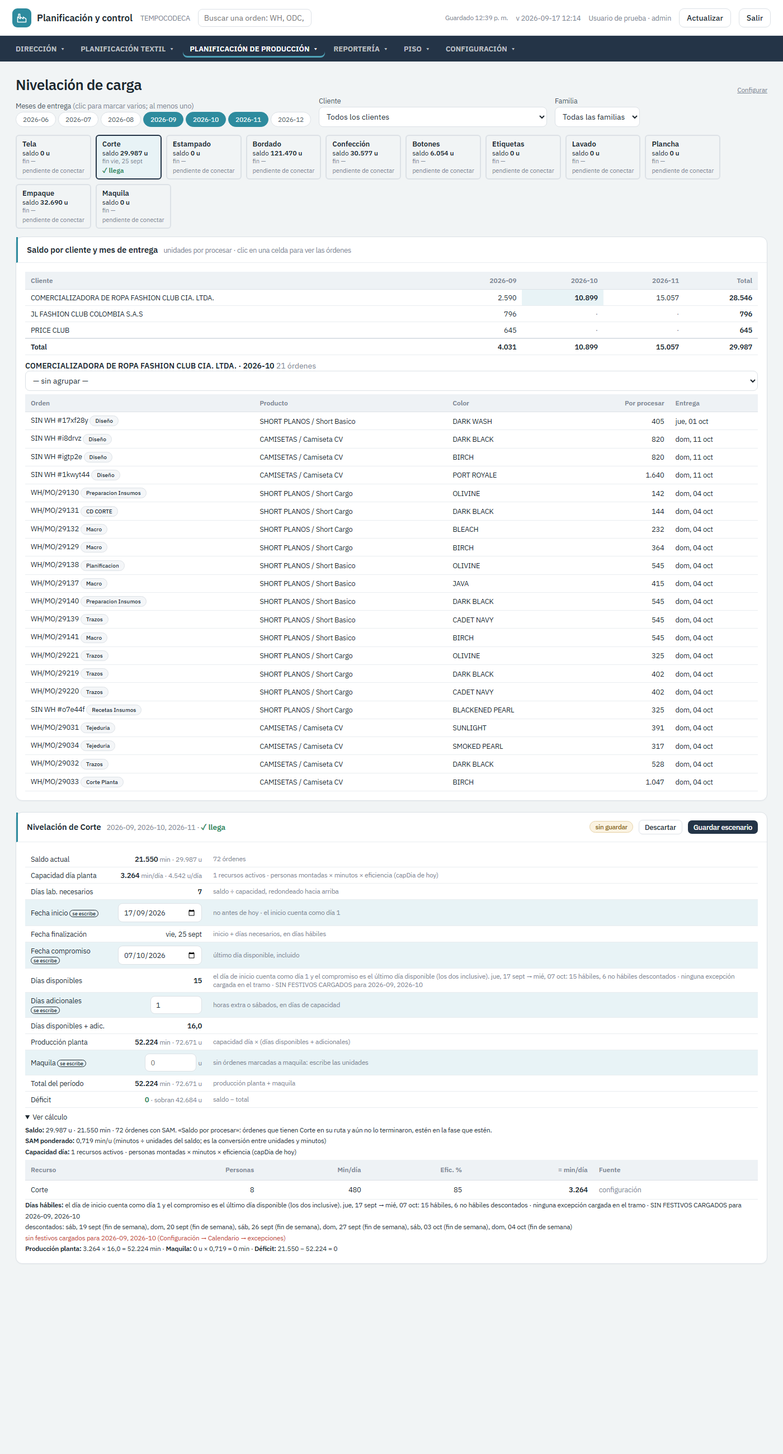
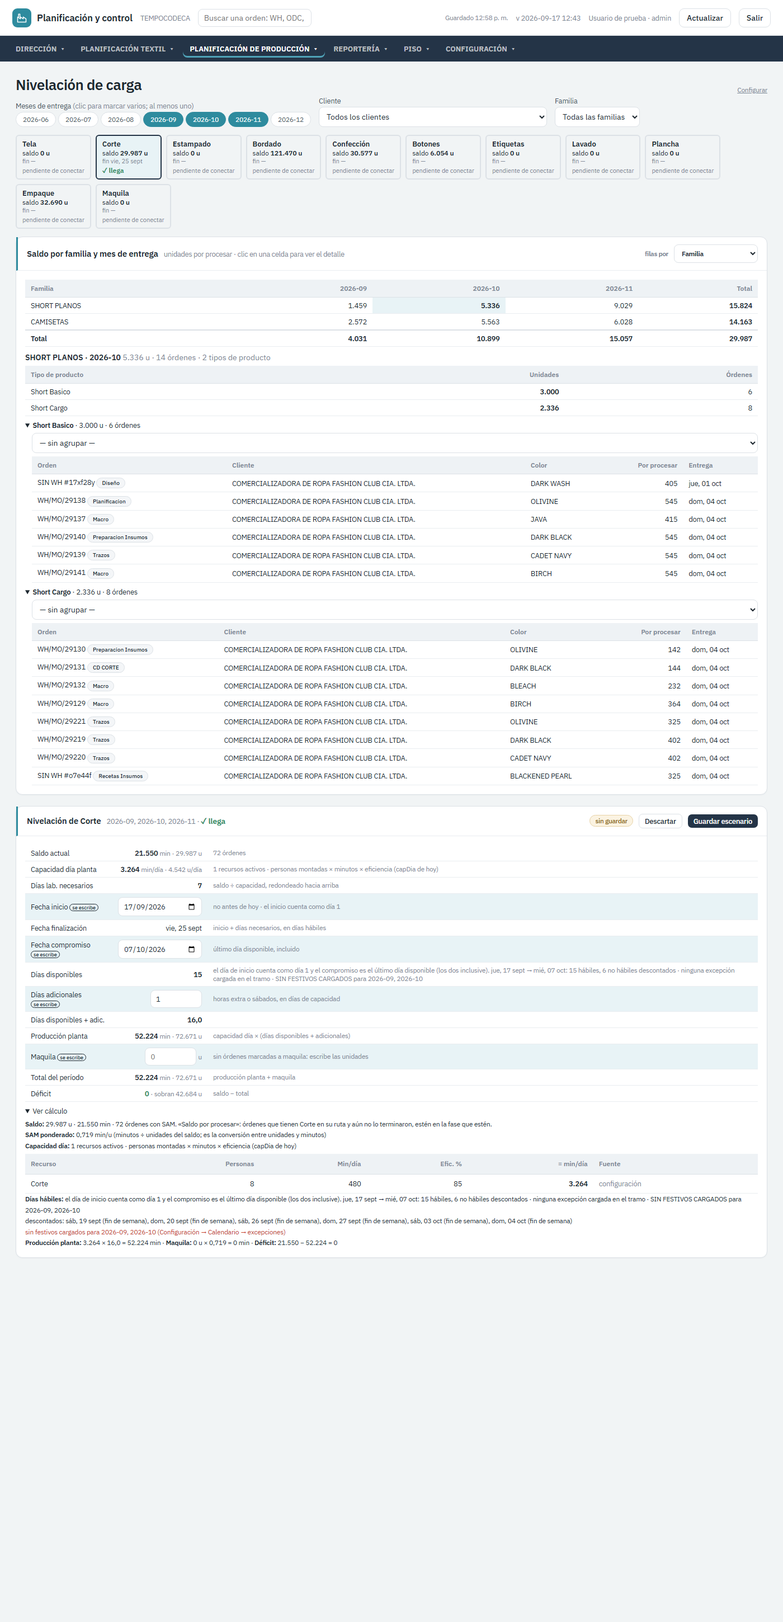
Nivelación · la tabla de saldo agrupa por FAMILIA × mes (selector familia / tipo de producto / cliente); celda → tipos de producto → órdenes
Para nivelar se mira el tipo de producto, no las órdenes una por una. El agrupamiento de filas no cambia el
cálculo (probado: mismo total). El detalle de una celda va primero por tipo de producto con unidades y adentro las
órdenes con foto/WH/fase; las WH quedan en el último nivel. Aplica a todas las áreas. Harness 2.335 checks, 0 errores.

diff --git a/test/driver.js b/test/driver.js
@@ -120,11 +120,11 @@ async function __run(){try{LISTO=true;}catch(e){}try{__R.prevFuzz=localStorage._
   const planT=planTarea(tareaRows,'Tarea__project_task__95_.xlsx');window.__planT=planT;window.__tareaRows=tareaRows;
   /* CAPTURA (para las capturas del reporte, sin correr las pruebas): ?captura=niv1 | niv2 carga el volcado y deja la pantalla de nivelación en un estado fijo */
   if(/captura=niv/.test(location.search)){TAREA=planT;const pr=window.prompt;window.prompt=()=>'APLICAR';aplicarTarea();window.prompt=pr;await __p(50);PERFIL={id:'cap',rol:'planificacion',nombre:'Planificación'};
-    NIVUI={meses:['2026-09','2026-10','2026-11'],cliente:'',familia:'',area:'corte',celda:null,esc:{},verCalc:false,noEntra:false};
+    NIVUI={meses:['2026-09','2026-10','2026-11'],cliente:'',familia:'',area:'corte',celda:null,filaPor:'familia',esc:{},verCalc:false,noEntra:false};
     if(/niv2/.test(location.search)){nivUISet('corte','inicio',hoy());nivUISet('corte','compromiso',dsum(hoy(),20));nivUISet('corte','diasAdic',1);NIVUI.verCalc=true;NIVUI.noEntra=true;
-      const r=nivUICalcular('corte');const cl=Object.keys((()=>{const m={};(r.saldo.ordenes||[]).forEach(o=>{m[String(o.cliente||'')]=1});return m})())[0];if(cl)NIVUI.celda={cliente:cl,mes:'2026-10'}}
+      const r=nivUICalcular('corte');const cl=Object.keys((()=>{const m={};(r.saldo.ordenes||[]).forEach(o=>{m[String(o.cliente||'')]=1});return m})())[0];if(cl)NIVUI.celda={por:'familia',fila:famDeOrden(r.saldo.ordenes[0]),mes:'2026-10'}}
     if(/niv3/.test(location.search)){nivUISet('corte','inicio',hoy());nivUISet('corte','compromiso',dsum(hoy(),3));nivUISet('corte','diasAdic',0);NIVUI.noEntra=true;NIVUI.verCalc=false}
-    page='nivelacion';render();document.body.classList.add('captura');__R.done=true;return}
+    page='nivelacion';render();document.querySelectorAll('#p-nivelacion details').forEach(d=>{d.open=true});document.body.classList.add('captura');__R.done=true;return}
   __check('planTarea reconoce columnas',!!planT);
   __check('planTarea: 4.235 cabeceras (3.733 con WH + 502 sin WH) y 60.766 líneas de componentes',planT.cabeceras===4235&&planT.sinLanzar===502&&planT.lineasComp===60766,planT.cabeceras+' / '+planT.sinLanzar+' / '+planT.lineasComp);
   __check('planTarea: la fase decide: los 2 Estado OP cancel son Facturado con fecha pasada → fuera de rango por la fase; 5 sin fecha en bandeja (4 con WH + 1 sin WH); las que tienen Proyecto entran al plan sin fecha y no se liberan ni programan',planT.excluidas.cancel.length===0&&planT.excluidas.fueraRango.filter(x=>x.estadoOP==='cancel').length===2&&planT.sinFecha.length===5&&planT.ordenes.filter(o=>o.sinFechaEntrega).length===planT.sinFecha.filter(x=>x.entra).length&&planT.ordenes.filter(o=>o.sinFechaEntrega).every(o=>!o.fecha&&mesPlan(o)&&!liberada(o,'tela')&&!puedeLiberarA(o,'tela')),planT.excluidas.cancel.length+' / '+planT.sinFecha.length);
@@ -6162,7 +6162,7 @@ async function __run(){try{LISTO=true;}catch(e){}try{__R.prevFuzz=localStorage._
    /* N1 · pantalla propia */
    {const a=document.querySelector('nav a[data-p="nivelacion"]');
     __check("N1: «Nivelación de carga» abre SU pantalla (no Configuración)",!!a&&!a.dataset.conf&&!document.querySelector('nav a[data-conf="nivel"]'));
-    PERFIL={id:"u-niv",rol:"planificacion",nombre:"Plan"};NIVUI={meses:null,cliente:"",familia:"",area:"corte",celda:null,esc:{},verCalc:false,noEntra:false};
+    PERFIL={id:"u-niv",rol:"planificacion",nombre:"Plan"};NIVUI={meses:null,cliente:"",familia:"",area:"corte",celda:null,filaPor:"familia",esc:{},verCalc:false,noEntra:false};
     page="nivelacion";render();const h=()=>document.getElementById("p-nivelacion").innerHTML;
     __check("N1: arriba a la derecha solo el enlace «Configurar»; nada de configuración adentro",/>Configurar</.test(h())&&!/Grupos de módulos|setNivParam\(|setNivelFase\(/.test(h()));
     {const pp=PERFIL;PERFIL=adminP;page="config";CONF.tab="nivel";render();PERFIL=pp}const hc=document.getElementById("p-config").innerHTML;
@@ -6176,22 +6176,30 @@ async function __run(){try{LISTO=true;}catch(e){}try{__R.prevFuzz=localStorage._
     av="";nivUIMeses().slice().forEach(m=>nivUITogMes(m));
     __check("N2: no se puede desmarcar el último",nivUIMeses().length===1&&/al menos un mes/.test(av),av);
     otros.forEach(m=>nivUITogMes(m));
-    __check("N2: los filtros visibles son solo cliente y familia",(h().match(/<select /g)||[]).length===2&&/Todos los clientes/.test(h())&&/Todas las familias/.test(h()));}
+    __check("N2: los filtros visibles son solo cliente y familia",(h().split('<div class="panel"')[0].match(/<select /g)||[]).length===2&&/Todos los clientes/.test(h())&&/Todas las familias/.test(h()));}
    /* N3 · recuadros de área desde los centros configurados */
    {const areas=nivUIAreas();const pro=S.centros.filter(c=>c.area==="pro"&&c.activo!==false).length;
     __check("N3: un recuadro por área: Tela, los centros de producción configurados en orden de proceso, Maquila",areas.length===pro+2&&areas[0].id==="tela"&&areas[1].id==="corte"&&areas[areas.length-1].id==="maquila"&&areas.findIndex(a=>a.id==="modulos")>areas.findIndex(a=>a.id==="corte"),areas.map(a=>a.id).join(" → "));
     const h=document.getElementById("p-nivelacion").innerHTML;
     __check("N3: cada recuadro trae saldo, fecha final y estado con ícono",areas.every(a=>h.includes("NIVUI.area='"+a.id+"'"))&&(h.match(/saldo <b>/g)||[]).length===areas.length&&(h.match(/>fin /g)||[]).length===areas.length&&/[✓⚠✕?] (llega|riesgo|déficit|dato faltante)/.test(h));
     NIVUI.area="modulos";render();const h2=document.getElementById("p-nivelacion").innerHTML;
-    __check("N3: clic en un recuadro muestra SOLO esa área abajo (y las no conectadas lo dicen, sin cuadrito)",/Confección todavía no está conectada/.test(h2)&&!/Nivelación de Corte/.test(h2)&&(h2.match(/Saldo por cliente y mes/g)||[]).length===1&&!/se escribe/.test(h2));
+    __check("N3: clic en un recuadro muestra SOLO esa área abajo (y las no conectadas lo dicen, sin cuadrito)",/Confección todavía no está conectada/.test(h2)&&!/Nivelación de Corte/.test(h2)&&(h2.match(/Saldo por familia y mes/g)||[]).length===1&&!/se escribe/.test(h2));
     NIVUI.area="corte";render();}
    /* N4 · detalle de Corte: tabla cliente × mes y cuadrito */
    {const r=nivUICalcular("corte");const h=()=>document.getElementById("p-nivelacion").innerHTML;
     __check("N4: la tabla tiene una columna por mes marcado y fila de totales",nivUIMeses().every(m=>new RegExp("<th class=\"num\">"+m+"</th>").test(h()))&&/<td>Total<\/td>/.test(h()));
-    const cel=h().match(/onclick="NIVUI.celda=\{cliente:'([^']+)',mes:'([^']+)'\}/);
+    __check("N4: la tabla es por FAMILIA × mes por defecto, con selector Familia · Tipo de producto · Cliente, y el título lo dice",/Saldo por familia y mes de entrega/.test(h())&&/<option value="familia" selected(="")?>Familia<\/option>/.test(h())&&/<option value="hija"[^>]*>Tipo de producto<\/option>/.test(h())&&/<option value="cliente"[^>]*>Cliente<\/option>/.test(h())&&(()=>{const fams=new Set(nivUIOrdenesSaldo(r).map(o=>famDeOrden(o)));return [...fams].every(f=>h().includes("<td>"+esc(f)+"</td>"))})());
+    const cel=h().match(/onclick="NIVUI.celda=\{por:'familia',fila:'([^']+)',mes:'([^']+)'\}/);
     __check("N4: hay celdas con saldo",!!cel,"sin celdas");
-    if(cel){NIVUI.celda={cliente:cel[1].replace(/&#39;/g,"'"),mes:cel[2]};render();
-     __check("N4: clic en una celda lista las órdenes con foto/WH (whCell + filasGRP)",/órdenes<\/span>/.test(h())&&/setNivelGRP\('nivui'/.test(h())&&/fase-mini|foto-mini|WH\//.test(h()));NIVUI.celda=null;render();}
+    if(cel){NIVUI.celda={por:"familia",fila:cel[1].replace(/&#39;/g,"'"),mes:cel[2]};render();
+     __check("N4: clic en una celda abre el detalle: primero tipos de producto con unidades, y adentro las órdenes con foto/WH/fase (whCell + filasGRP)",/tipos de producto<\/span>/.test(h())&&/<th>Tipo de producto<\/th><th class="num">Unidades<\/th>/.test(h())&&/<details[^>]*><summary[^>]*><b>/.test(h())&&/setNivelGRP\('nivui'/.test(h())&&/fase-mini|foto-mini|WH\//.test(h()));
+     /* las WH van en el último nivel: la primera tabla del detalle es de tipos de producto, no de órdenes */
+     __check("N4: las WH quedan en el último nivel, no en el primero",(()=>{const i=h().indexOf("tipos de producto</span>");const seg=h().slice(i,i+1500);const m=seg.match(/<tbody><tr><td>([^<]+)<\/td>/);return !!m&&!/^WH\/|^SIN WH/.test(m[1])})());
+     /* cambiar el agrupamiento no cambia el total */
+     const totalDe=()=>{const mm=h().match(/<td>Total<\/td>(?:<td class="num">[^<]*<\/td>)*<td class="num">([^<]+)<\/td>/);return mm?mm[1]:null};const tF=totalDe();
+     NIVUI.filaPor="hija";NIVUI.celda=null;render();const tH=totalDe();NIVUI.filaPor="cliente";render();const tC=totalDe();
+     __check("N4: agrupar por tipo de producto o por cliente no cambia el cálculo (mismo total) y el título cambia",tF!=null&&tF===tH&&tH===tC&&/Saldo por cliente y mes de entrega/.test(h()),tF+" / "+tH+" / "+tC);
+     NIVUI.filaPor="familia";NIVUI.celda=null;render();}
     const filas=[...h().matchAll(/<tr[^>]*><td>([^<]+?)(?: <span class="tag"[^>]*>se escribe<\/span>)?<\/td>/g)].map(x=>x[1].trim());
     const esperado=["Saldo actual","Capacidad día planta","Días lab. necesarios","Fecha inicio","Fecha finalización","Fecha compromiso","Días disponibles","Días adicionales","Días disponibles + adic.","Producción planta","Maquila","Total del período","Déficit"];
     const idx=esperado.map(n=>filas.indexOf(n));
@@ -6236,7 +6244,7 @@ async function __run(){try{LISTO=true;}catch(e){}try{__R.prevFuzz=localStorage._
      __check("N7: con déficit, clic muestra «qué no entra» con foto/WH, de la entrega más lejana hacia atrás",/Qué no entra/.test(h)&&l.length>=1&&l.reduce((a,x)=>a+x.min,0)>=r.deficitMin&&(l.length<2||String(fechaMetaDe(l[0].o))>=String(fechaMetaDe(l[l.length-1].o))),l.length+" órdenes");}
     else __check("N7: con déficit, clic muestra «qué no entra»",false,"no hubo déficit con capacidad 0: "+JSON.stringify({def:r.deficitMin,cap:r.calc.capDia,saldo:r.saldo&&r.saldo.min}));
     recsC.forEach((r,i)=>{r.pers=bakPers[i]});NIVUI.noEntra=false;nivUIDescartar("corte");}
-   window.alert=al;PERFIL=adminP;NIVUI={meses:null,cliente:"",familia:"",area:"corte",celda:null,esc:{},verCalc:false,noEntra:false};page="ordenes";render();
+   window.alert=al;PERFIL=adminP;NIVUI={meses:null,cliente:"",familia:"",area:"corte",celda:null,filaPor:"familia",esc:{},verCalc:false,noEntra:false};page="ordenes";render();
    __check("NIVUI sin errores",__R.errors.length===antes,JSON.stringify(__R.errors.slice(antes,antes+3)));}
   __R.done=true;console.log('__RESULTADO__ '+JSON.stringify({errores:__R.errors.length,fallos:__R.checks.filter(c=>!c.ok).length,checks:__R.checks.length}));
 }

diff --git a/index.html b/index.html
@@ -706,7 +706,7 @@ async function _save(){
 }
 
 /* ---------- versión cargada vs publicada: nunca mirar números de una copia vieja sin saberlo ---------- */
-const APP_BUILD='2026-09-17 12:43';
+const APP_BUILD='2026-09-17 13:04';
 function verBotonesAdmin(){const ok=puede('config');['btn-respaldo','btn-restaurar'].forEach(id=>{const b=document.getElementById(id);if(b)b.style.display=ok?'':'none'})}
 function verVersion(){const e=document.getElementById('version');if(e)e.textContent='v '+APP_BUILD}
 async function revisarVersion(){try{const r=await fetch(location.pathname+'?nocache='+Date.now(),{cache:'no-store'});if(!r.ok)return;const t=await r.text();const m=t.match(/APP_BUILD=\x27([^\x27]+)\x27/);if(!m)return;
@@ -6042,7 +6042,12 @@ function vNivelConfHTML(){
    `saldoProceso`, `capDia`, `diasHabilesInc`/`finLabInc`): aquí no se calcula nada nuevo, solo se
    presenta y se derivan tres filas del cuadrito (días adicionales, maquila escrita, total del período).
    Del Excel se tomó la forma; ninguno de sus números. Nada de configuración vive aquí: enlace «Configurar». */
-let NIVUI={meses:null,cliente:'',familia:'',area:'corte',celda:null,esc:{},verCalc:false,noEntra:false};
+let NIVUI={meses:null,cliente:'',familia:'',area:'corte',celda:null,filaPor:'familia',esc:{},verCalc:false,noEntra:false};
+/* cómo se agrupan las FILAS de la tabla de saldo (no cambia el cálculo): familia (categoría padre) por defecto */
+const NIVUI_FILAS=[['familia','Familia'],['hija','Tipo de producto'],['cliente','Cliente']];
+function nivUIClaveFila(o,por){por=por||NIVUI.filaPor||'familia';if(por==='cliente')return String(o.cliente||'(sin cliente)');
+  if(por==='hija'){const k=K(o.cat);return k?k.n:'Sin categoría'}return famDeOrden(o)}
+function nivUIFilaTxt(por){return (NIVUI_FILAS.find(x=>x[0]===(por||NIVUI.filaPor))||NIVUI_FILAS[0])[1].toLowerCase()}
 const NIVUI_LISTA='nivui';
 /* áreas con el cuadrito conectado; las demás esperan aprobación una por una */
 const NIVUI_CONECTADAS=['corte'];
@@ -6142,23 +6147,34 @@ function nivUIRecuadrosHTML(){const meses=nivUIMeses();
       <div style="font-size:12px">saldo <b>${saldo}</b></div>
       <div style="font-size:11px" class="mut">fin ${esc(fin)}</div>
       <div>${NIVUI_CONECTADAS.includes(a.id)?nivUIEstadoHTML(r?r.estado:'faltante',true):'<span class="mut" style="font-size:11px">pendiente de conectar</span>'}</div></div>`}).join('')}</div>`}
-/* tabla cliente × mes (unidades del saldo); clic en celda → lista */
-function nivUITablaHTML(r){if(!r||!r.saldo)return '';const meses=r.meses;const c=r.area.tipo==='centro'?r.area.id:'modulos';
-  const uDe=o=>r.area.tipo==='tela'?(+o.cant||0):pendCentroUnid(o,c);
-  const ords=r.saldo.ordenes.concat(r.saldo.sinSAM||[]).filter((o,i,arr)=>arr.indexOf(o)===i);
-  const m={};ords.forEach(o=>{const cl=String(o.cliente||'(sin cliente)');const mes=mesEntregaNiv(o);m[cl]=m[cl]||{};m[cl][mes]=(m[cl][mes]||0)+uDe(o)});
-  const clientes=Object.keys(m).sort((a,b)=>Object.values(m[b]).reduce((x,y)=>x+y,0)-Object.values(m[a]).reduce((x,y)=>x+y,0));
-  const tot={};clientes.forEach(cl=>meses.forEach(mes=>{tot[mes]=(tot[mes]||0)+(m[cl][mes]||0)}));
-  const celda=(cl,mes,v)=>{const on=NIVUI.celda&&NIVUI.celda.cliente===cl&&NIVUI.celda.mes===mes;return `<td class="num" style="cursor:${v?'pointer':'default'};${on?'background:var(--t-accent-soft,var(--field));font-weight:600':''}" ${v?`onclick="NIVUI.celda=${on?'null':`{cliente:'${esc(cl).replace(/'/g,'&#39;')}',mes:'${mes}'}`};render()"`:''}>${v?num(v,0):'<span class="mut">·</span>'}</td>`};
-  return `<div class="panel"><h3>Saldo por cliente y mes de entrega <span class="note">unidades por procesar · clic en una celda para ver las órdenes</span></h3><div class="body"><div class="scroll"><table><thead><tr><th>Cliente</th>${meses.map(mes=>`<th class="num">${esc(mes)}</th>`).join('')}<th class="num">Total</th></tr></thead><tbody>
-   ${clientes.map(cl=>`<tr><td>${esc(cl)}</td>${meses.map(mes=>celda(cl,mes,m[cl][mes]||0)).join('')}<td class="num"><b>${num(meses.reduce((x,mes)=>x+(m[cl][mes]||0),0),0)}</b></td></tr>`).join('')||'<tr><td colspan="99" class="mut">Sin saldo con estos meses y filtros.</td></tr>'}
-   ${clientes.length?`<tr style="border-top:2px solid var(--rule);font-weight:600"><td>Total</td>${meses.map(mes=>`<td class="num">${num(tot[mes]||0,0)}</td>`).join('')}<td class="num">${num(meses.reduce((x,mes)=>x+(tot[mes]||0),0),0)}</td></tr>`:''}
-  </tbody></table></div>${nivUIListaCeldaHTML(r,ords,uDe)}</div></div>`}
-function nivUIListaCeldaHTML(r,ords,uDe){const cd=NIVUI.celda;if(!cd)return '';
-  const l=ords.filter(o=>String(o.cliente||'(sin cliente)')===cd.cliente&&mesEntregaNiv(o)===cd.mes);
-  const fila=o=>`<tr><td>${whCell(o)}</td><td>${esc(nombreCat(K(o.cat)))}</td><td>${esc((C(o.color)||{}).n||'')}</td><td class="num">${num(uDe(o),0)}</td><td>${fechaMetaDe(o)?fmtDia(fechaMetaDe(o)):'<span class="mut">sin fecha</span>'}</td></tr>`;
-  return `<div style="margin-top:10px"><b>${esc(cd.cliente)} · ${esc(cd.mes)}</b> <span class="mut">${l.length} órdenes</span> ${grpSelHTML(NIVUI_LISTA,true)}
-   <table style="margin-top:6px"><thead><tr><th>Orden</th><th>Producto</th><th>Color</th><th class="num">Por procesar</th><th>Entrega</th></tr></thead><tbody>${filasGRP(NIVUI_LISTA,l,fila,5)}</tbody></table></div>`}
+/* tabla FAMILIA × mes (unidades del saldo): para nivelar se mira el tipo de producto, no las órdenes una por una.
+   Las filas se pueden agrupar por familia (por defecto), tipo de producto o cliente; el cálculo no cambia.
+   Clic en una celda → debajo, ESA fila y ese mes: primero por tipo de producto con sus unidades, y ahí sí las
+   órdenes con foto/WH/fase (filasGRP + whCell). Las WH quedan en el último nivel. */
+function nivUIOrdenesSaldo(r){return r.saldo.ordenes.concat(r.saldo.sinSAM||[]).filter((o,i,arr)=>arr.indexOf(o)===i)}
+function nivUIUnidDe(r){const c=r.area.tipo==='centro'?r.area.id:'modulos';return o=>r.area.tipo==='tela'?(+o.cant||0):pendCentroUnid(o,c)}
+function nivUITablaHTML(r){if(!r||!r.saldo)return '';const meses=r.meses;const uDe=nivUIUnidDe(r);const por=NIVUI.filaPor||'familia';
+  const ords=nivUIOrdenesSaldo(r);
+  const m={};ords.forEach(o=>{const f=nivUIClaveFila(o,por);const mes=mesEntregaNiv(o);m[f]=m[f]||{};m[f][mes]=(m[f][mes]||0)+uDe(o)});
+  const filas=Object.keys(m).sort((a,b)=>Object.values(m[b]).reduce((x,y)=>x+y,0)-Object.values(m[a]).reduce((x,y)=>x+y,0));
+  const tot={};filas.forEach(f=>meses.forEach(mes=>{tot[mes]=(tot[mes]||0)+(m[f][mes]||0)}));
+  const celda=(f,mes,v)=>{const on=NIVUI.celda&&NIVUI.celda.fila===f&&NIVUI.celda.mes===mes&&NIVUI.celda.por===por;
+    return `<td class="num" style="cursor:${v?'pointer':'default'};${on?'background:var(--t-accent-soft,var(--field));font-weight:600':''}" ${v?`onclick="NIVUI.celda=${on?'null':`{por:'${por}',fila:'${esc(f).replace(/'/g,'&#39;')}',mes:'${mes}'}`};render()"`:''}>${v?num(v,0):'<span class="mut">·</span>'}</td>`};
+  const sel=`<select style="font-size:var(--fs-xs);width:auto;min-width:150px" onchange="NIVUI.filaPor=this.value;NIVUI.celda=null;render()">${NIVUI_FILAS.map(([k,n])=>`<option value="${k}" ${por===k?'selected':''}>${n}</option>`).join('')}</select>`;
+  return `<div class="panel"><h3>Saldo por ${esc(nivUIFilaTxt(por))} y mes de entrega <span class="note">unidades por procesar · clic en una celda para ver el detalle</span><span class="spacer"></span><span class="mut" style="font-size:var(--fs-xs)">filas por</span> ${sel}</h3><div class="body"><div class="scroll"><table><thead><tr><th>${esc(nivUIFilaTxt(por)).replace(/^./,c=>c.toUpperCase())}</th>${meses.map(mes=>`<th class="num">${esc(mes)}</th>`).join('')}<th class="num">Total</th></tr></thead><tbody>
+   ${filas.map(f=>`<tr><td>${esc(f)}</td>${meses.map(mes=>celda(f,mes,m[f][mes]||0)).join('')}<td class="num"><b>${num(meses.reduce((x,mes)=>x+(m[f][mes]||0),0),0)}</b></td></tr>`).join('')||'<tr><td colspan="99" class="mut">Sin saldo con estos meses y filtros.</td></tr>'}
+   ${filas.length?`<tr style="border-top:2px solid var(--rule);font-weight:600"><td>Total</td>${meses.map(mes=>`<td class="num">${num(tot[mes]||0,0)}</td>`).join('')}<td class="num">${num(meses.reduce((x,mes)=>x+(tot[mes]||0),0),0)}</td></tr>`:''}
+  </tbody></table></div>${nivUIDetalleCeldaHTML(r,ords,uDe)}</div></div>`}
+/* detalle de una celda: tipo de producto (con unidades) → órdenes (foto, WH, fase) */
+function nivUIDetalleCeldaHTML(r,ords,uDe){const cd=NIVUI.celda;if(!cd||cd.por!==(NIVUI.filaPor||'familia'))return '';
+  const l=ords.filter(o=>nivUIClaveFila(o,cd.por)===cd.fila&&mesEntregaNiv(o)===cd.mes);if(!l.length)return '';
+  const porHija={};l.forEach(o=>{const h=nivUIClaveFila(o,'hija');(porHija[h]=porHija[h]||[]).push(o)});
+  const hijas=Object.keys(porHija).sort((a,b)=>porHija[b].reduce((x,o)=>x+uDe(o),0)-porHija[a].reduce((x,o)=>x+uDe(o),0));
+  const fila=o=>`<tr><td>${whCell(o)}</td><td>${esc(o.cliente||'')}</td><td>${esc((C(o.color)||{}).n||'')}</td><td class="num">${num(uDe(o),0)}</td><td>${fechaMetaDe(o)?fmtDia(fechaMetaDe(o)):'<span class="mut">sin fecha</span>'}</td></tr>`;
+  return `<div style="margin-top:10px"><b>${esc(cd.fila)} · ${esc(cd.mes)}</b> <span class="mut">${num(l.reduce((x,o)=>x+uDe(o),0),0)} u · ${l.length} órdenes · ${hijas.length} tipos de producto</span>
+   <table style="margin-top:6px"><thead><tr><th>Tipo de producto</th><th class="num">Unidades</th><th class="num">Órdenes</th></tr></thead><tbody>${hijas.map(h=>`<tr><td>${esc(h)}</td><td class="num"><b>${num(porHija[h].reduce((x,o)=>x+uDe(o),0),0)}</b></td><td class="num">${porHija[h].length}</td></tr>`).join('')}</tbody></table>
+   ${hijas.map(h=>`<details style="margin-top:8px" ${hijas.length===1?'open':''}><summary style="cursor:pointer;font-size:var(--fs-s)"><b>${esc(h)}</b> · ${num(porHija[h].reduce((x,o)=>x+uDe(o),0),0)} u · ${porHija[h].length} órdenes</summary>
+    <div style="margin:6px 0 0 12px">${grpSelHTML(NIVUI_LISTA,true)}<table style="margin-top:6px"><thead><tr><th>Orden</th><th>Cliente</th><th>Color</th><th class="num">Por procesar</th><th>Entrega</th></tr></thead><tbody>${filasGRP(NIVUI_LISTA,porHija[h],fila,5)}</tbody></table></div></details>`).join('')}</div>`}
 /* el cuadrito: catorce filas, en este orden, con estos nombres; solo las «se escribe» son editables */
 function nivUICuadritoHTML(r){if(!r)return '';const c=r.calc,e=r.esc,ok=puede('programa'),id=r.area.id;
   const ro=(n,v,nota)=>`<tr><td>${n}</td><td class="num">${v}</td><td class="mut" style="font-size:var(--fs-xs)">${nota||''}</td></tr>`;

diff --git a/NIVELACION_PANTALLA_CORTE.md b/NIVELACION_PANTALLA_CORTE.md
@@ -7,7 +7,7 @@ al elegirlas se ve la tabla cliente × mes y un aviso, sin cuadrito.
 
 Capturas (Chrome sin cabeza sobre el simulador con el volcado real, 1.400 px de ancho):
 `capturas/nivelacion_corte_1.png` (tres meses marcados, recuadros de área, Corte sin fechas → dato faltante),
-`capturas/nivelacion_corte_2.png` (detalle de Corte con celda abierta, escenario sin guardar, «Ver cálculo» abierto),
+`capturas/nivelacion_corte_2.png` (tabla por familia con la celda SHORT PLANOS · 2026-10 abierta: tipos de producto → órdenes; escenario sin guardar; «Ver cálculo» abierto),
 `capturas/nivelacion_corte_3.png` (déficit y «qué no entra»).
 
 ## Antes: órdenes de demostración (punto 1)
@@ -34,8 +34,12 @@ Capturas (Chrome sin cabeza sobre el simulador con el volcado real, 1.400 px de 
   Etiquetas · Lavado · Plancha · Empaque · Maquila (los sub-centros de Terminados también son centros configurados: si
   no deben aparecer, es una decisión de configuración, no de código). Cada uno: saldo, fecha final y estado con ícono,
   color y texto (✓ llega · ⚠ riesgo, holgura ≤ `colchonDias` · ✕ déficit · ? dato faltante). Clic → abajo solo esa área.
-- **2.4a** Tabla cliente × mes de entrega (unidades por procesar), filas ordenadas por saldo, columna y fila de totales; clic en
-  una celda → lista de órdenes con foto/WH/fase (`filasGRP('nivui')` + `whCell`) y agrupador común.
+- **2.4a (cambiado a pedido, mismo día)** Tabla **familia × mes de entrega** (unidades por procesar): para nivelar se mira el tipo de
+  producto, no las órdenes una por una. Filas ordenadas por saldo, totales de fila y columna. Selector «filas por»: **Familia**
+  (por defecto) · Tipo de producto (categoría hija) · Cliente — cambia solo el agrupamiento, no el cálculo (probado: mismo total).
+  Clic en una celda → debajo, ESA familia y ese mes: **primero por tipo de producto con sus unidades**, y adentro las órdenes con
+  foto/WH/fase (`filasGRP('nivui')` + `whCell`, agrupador común); las WH quedan en el último nivel (probado). Título: «Saldo por
+  familia y mes de entrega» (o tipo de producto / cliente según el selector). Aplica a todas las áreas.
 - **2.4b** Cuadrito con las trece filas, en ese orden y con esos nombres. Solo **Fecha inicio, Fecha compromiso, Días
   adicionales y Maquila** se escriben (fondo distinto, etiqueta «se escribe»); lo demás es solo lectura. Cambiar un valor
   recalcula al instante en memoria (`NIVUI.esc`); nada se guarda hasta «Guardar escenario» (motivo obligatorio, permiso
@@ -84,4 +88,4 @@ a la vista. Convención del Paso 1: el inicio cuenta como día 1 y el compromiso
 
 Prueba N0 nueva: **ninguna función declarada dos veces en `index.html`** (1.494 funciones) y el prefijo `nivUI*`. Pruebas
 N1–N7 (pantalla propia, meses, recuadros, tabla y cuadrito, coherencia, escribir/guardar/permisos/dato faltante, qué no entra)
-y D1 (demo). **2.332 checks, 0 errores, 0 rojas.**
+y D1 (demo). **2.335 checks, 0 errores, 0 rojas** (tras la tabla por familia).

diff --git a/CLAUDE.md b/CLAUDE.md
@@ -838,7 +838,8 @@ Sigue la lógica del Excel, un área a la vez. `vNivelacion` (página `nivelacio
 como chips de selección múltiple (`nivUIMeses`/`nivUITogMes`, al menos uno), filtros cliente y familia (`nivUIFiltro`),
 recuadros por área desde los centros configurados (`nivUIAreas`: Tela + centros `pro` en `ordenPaso` + Maquila) con saldo,
 fin y estado (`nivUIEstadoHTML`: ✓ llega / ⚠ riesgo (holgura ≤ `colchonDias`) / ✕ déficit / ? dato faltante); clic → solo
-esa área: tabla cliente × mes (`nivUITablaHTML`, celda → lista con `filasGRP`+`whCell`) y el cuadrito de trece filas
+esa área: tabla FAMILIA × mes (`nivUITablaHTML`; `NIVUI.filaPor` = familia | hija | cliente solo cambia las filas; celda →
+`nivUIDetalleCeldaHTML`: tipos de producto con unidades y adentro las órdenes con `filasGRP`+`whCell`) y el cuadrito de trece filas
 (`nivUICuadritoHTML`; solo Fecha inicio, Fecha compromiso, Días adicionales y Maquila se escriben, `nivUISet`, en
 `NIVUI.esc` hasta «Guardar escenario» con motivo y permiso `programa`, `nivUIGuardar` → inicio/compromiso por `setNivFecha`
 del Paso 1 y `S.params.nivelacion.escenarios[area]`). **El motor no cambió**: `nivUICalcular` llama a `nivelar()` y deriva
